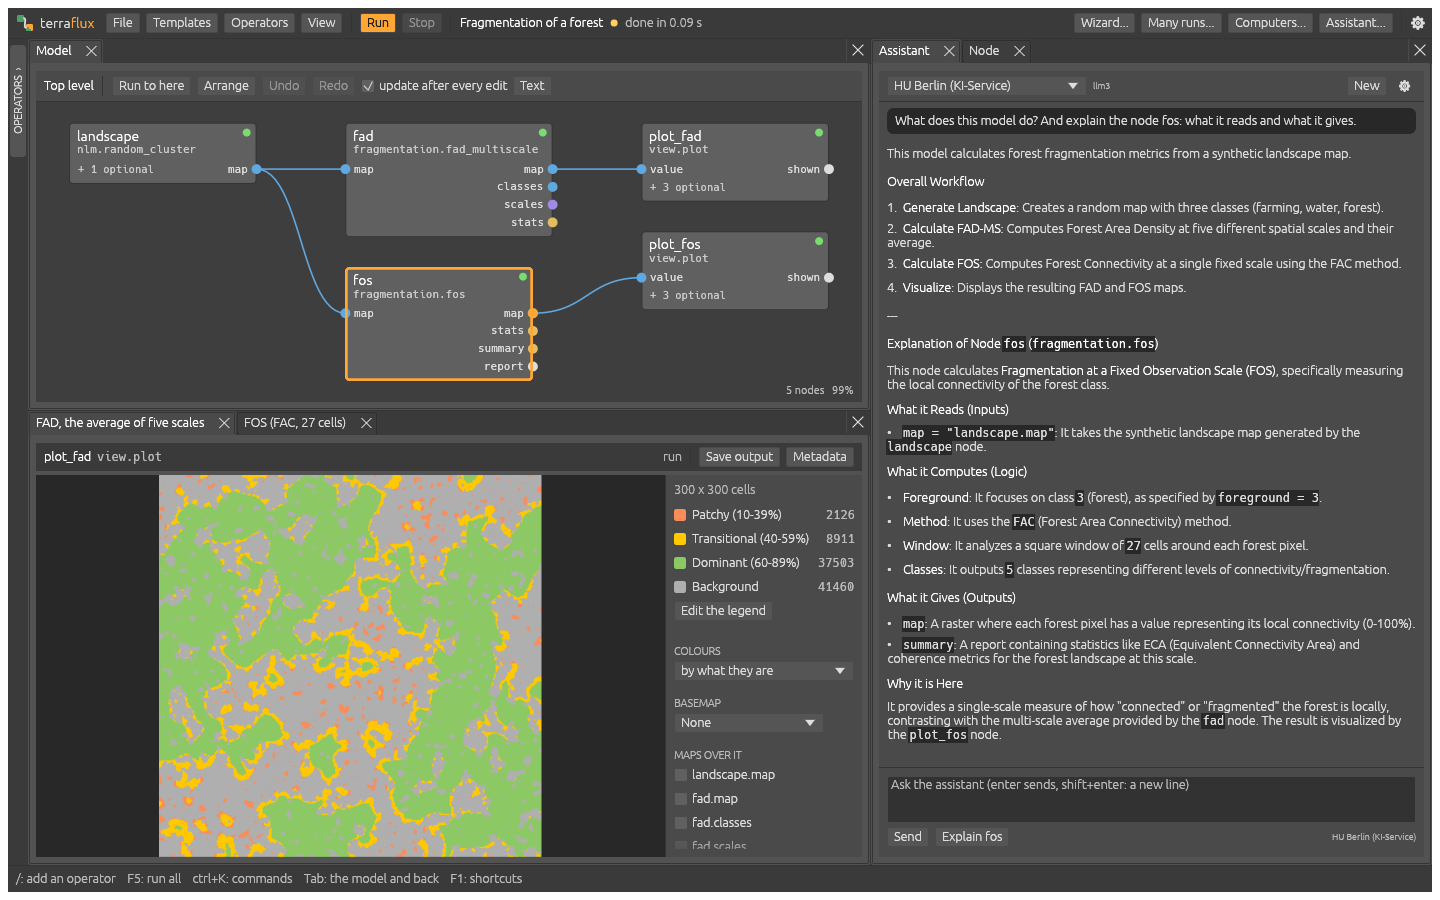
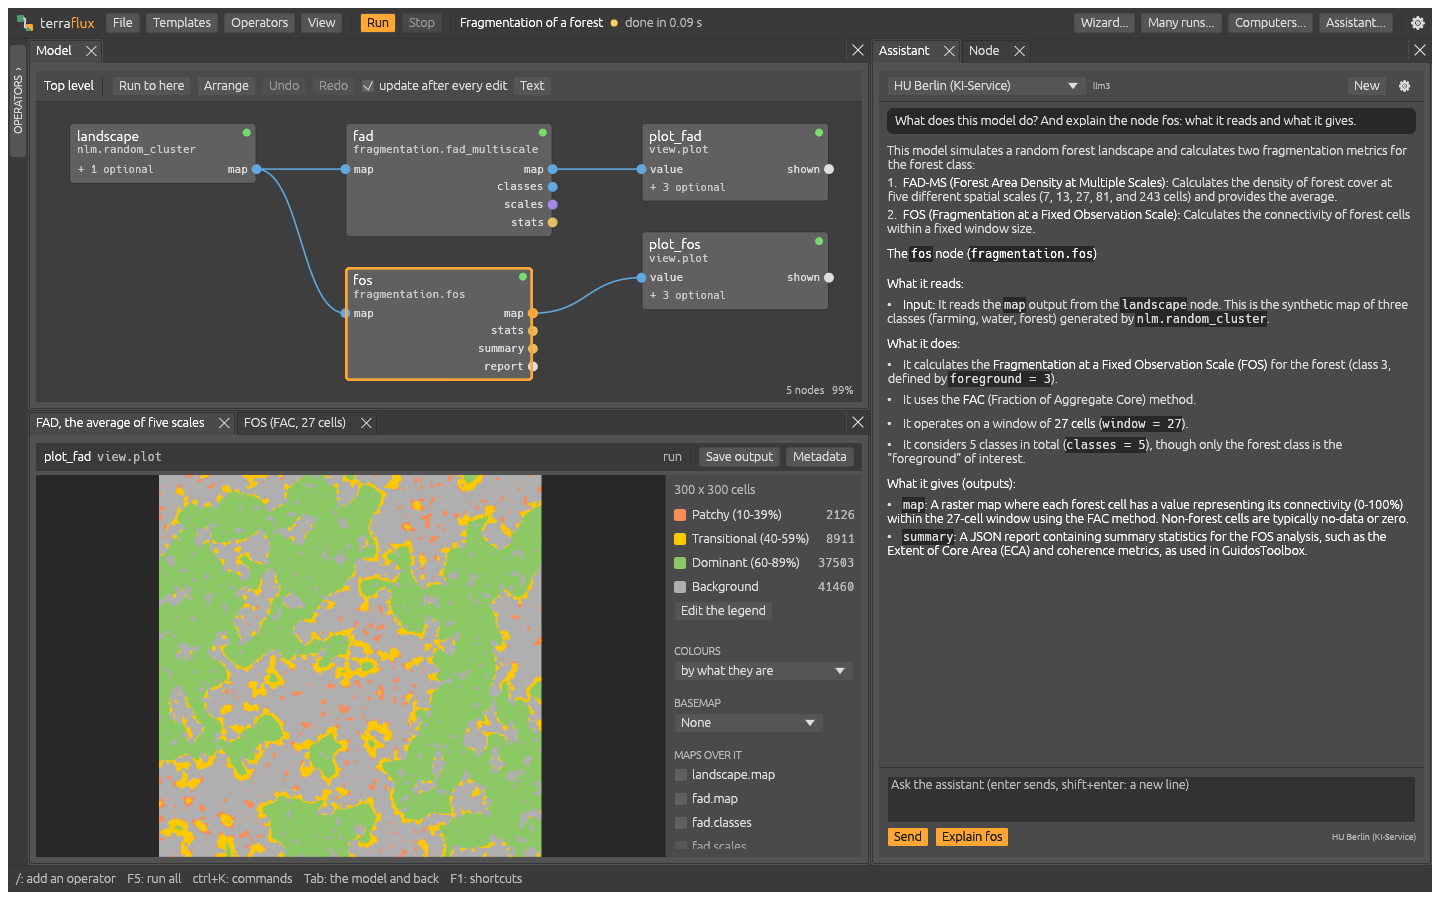
fix: the viewer opens behind the model's graph (a template, the first data), the assistant in the inspector's tabs at the right by default (the layout's version 9), Send and Explain in the accent

Changed region(s): [[0.5938, 0.1556, 0.9688, 0.84], [0.5938, 0.9022, 0.7188, 0.9644]]

diff --git a/crates/app/src/app.rs b/crates/app/src/app.rs
@@ -98,16 +98,17 @@ impl Pane {
 }
 
 /// The panes as they first are: the model in most of the window, the node selected at its right as an inspector
-/// (the preparation of its data and the files in tabs beside it); the others from the View menu. The viewer opens
-/// in a tab beside the model's when the first data comes (a raster or vectors read, a template); the maps of nodes
-/// open beside the viewer. The operators are in a drawer at the window's left edge, in the Operators menu, behind
+/// (the preparation of its data, the files and the assistant in tabs beside it); the others from the View menu.
+/// The viewer opens in a tab behind the model's when the first data comes (a raster or vectors read, a template);
+/// the maps of nodes open beside the viewer. The operators are in a drawer at the window's left edge, in the Operators menu, behind
 /// "/" and in the commands (ctrl+K); their pane, shown, takes the left edge.
 pub fn default_layout() -> DockState<Pane> {
     // the inspector a fifth of the window
     const NODE: f32 = 0.2;
     let mut d = DockState::new(vec![Pane::Model]);
     let s = d.main_surface_mut();
-    let [_, _] = s.split_right(NodeIndex::root(), 1.0 - NODE, vec![Pane::Node, Pane::Prepare, Pane::Files]);
+    let [_, _] =
+        s.split_right(NodeIndex::root(), 1.0 - NODE, vec![Pane::Node, Pane::Prepare, Pane::Files, Pane::Assistant]);
     d
 }
 
@@ -133,7 +134,7 @@ fn retain_panes(dock: &mut DockState<Pane>, keep: impl FnMut(&mut Pane) -> bool)
 }
 
 /// The version of the layout kept (a layout of another version is let go).
-const LAYOUT_VERSION: u32 = 8;
+const LAYOUT_VERSION: u32 = 9;
 
 /// A window of its own (another screen): its panes in a dock.
 pub struct Detached {
@@ -1220,7 +1221,7 @@ impl TerrafluxApp {
                 // a model of data: its viewer beside it, the graph in front
                 self.viewer_opened = false;
                 if self.has_data() {
-                    self.add_viewer(false);
+                    self.add_viewer();
                 }
             }
             Err(e) => self.message = Some(e),
@@ -1251,8 +1252,8 @@ impl TerrafluxApp {
         self.session = Some(s);
         self.message = None;
         self.focus(Pane::Model);
-        // what it makes, in the viewer
-        self.add_viewer(true);
+        // what it makes, in the viewer (behind the graph)
+        self.add_viewer();
     }
 
     /// Save the model (asking where when it has no file yet).
@@ -2265,7 +2266,7 @@ impl TerrafluxApp {
     /// a model with inputs, a template started.
     fn open_viewer(&mut self) {
         if !self.viewer_opened && self.has_data() {
-            self.add_viewer(true);
+            self.add_viewer();
         }
     }
 
@@ -2276,16 +2277,18 @@ impl TerrafluxApp {
         })
     }
 
-    /// The viewer's tab opened beside the model's (if it is not open), in front or behind the tab in front.
-    fn add_viewer(&mut self, front: bool) {
+    /// The viewer's tab opened beside the model's (if it is not open), behind it: the graph stays in front, and the
+    /// focus where it was.
+    fn add_viewer(&mut self) {
         self.viewer_opened = true;
         if self.is_open(Pane::Viewer) {
             return;
         }
         let before = self.focused();
         self.focus(Pane::Viewer);
-        if !front {
-            self.focus(before.filter(|p| *p != Pane::Viewer).unwrap_or(Pane::Model));
+        self.focus(Pane::Model);
+        if let Some(b) = before.filter(|p| !matches!(p, Pane::Viewer | Pane::Model)) {
+            self.focus(b);
         }
     }
 
@@ -2675,7 +2678,7 @@ impl TerrafluxApp {
             }
             self.viewer_opened = false;
             if self.has_data() {
-                self.add_viewer(false);
+                self.add_viewer();
             }
         }
         self.layout_file = Some(path);

diff --git a/crates/app/tests/ui.rs b/crates/app/tests/ui.rs
@@ -452,6 +452,8 @@ fn a_basemap_shows_under_the_data() {
         )
         .unwrap();
     }
+    h.run_steps(2);
+    h.state_mut().focus(Pane::Viewer);
     until(&mut h, "the map with a CRS", |a| {
         let s = a.session.as_ref().unwrap();
         !s.running() && s.preview_value().is_some()
@@ -487,6 +489,8 @@ fn templates_run_and_the_keyboard_adds_operators() {
     h.run_steps(2);
     let ctx = h.ctx.clone();
     h.state_mut().start_template(&ctx, &terraflux_app::templates::TEMPLATES[0]);
+    // (the viewer opens behind the graph)
+    h.state_mut().focus(Pane::Viewer);
     until(&mut h, "the template's plot", |a| a.session.as_ref().unwrap().map_tabs.values().any(|t| t.node == "plot"));
     until(&mut h, "the run", |a| {
         let s = a.session.as_ref().unwrap();
@@ -1756,12 +1760,13 @@ fn the_viewer_comes_with_the_data_and_the_cells_show_their_values() {
             .unwrap();
     }
     h.run_steps(2);
-    assert_eq!(h.state_mut().focused(), Some(Pane::Viewer), "the viewer, in front");
+    assert_eq!(h.state_mut().focused(), Some(Pane::Model), "the viewer behind the model's graph");
     {
         let dock = h.state().dock.as_ref().unwrap();
         let (a, b) = (dock.find_tab(&Pane::Model).unwrap(), dock.find_tab(&Pane::Viewer).unwrap());
         assert_eq!((a.surface, a.node), (b.surface, b.node), "in a tab beside the model's");
     }
+    h.state_mut().focus(Pane::Viewer);
     drawn(&mut h);
     until(&mut h, "the map drawn", |a| a.session.as_ref().unwrap().preview_view.rect().is_some());
     let rect = h.state().session.as_ref().unwrap().preview_view.rect().unwrap();

diff --git a/crates/app/src/chat.rs b/crates/app/src/chat.rs
@@ -950,9 +950,12 @@ fn input(ui: &mut Ui, c: &mut Chat, s: &mut Session) {
                 c.stop();
             }
         } else {
-            send |= ui.add(crate::app::accent_button("Send", !c.input.trim().is_empty())).clicked();
+            send |= ui.add(crate::app::accent_button("Send", true)).clicked();
             if let Some(id) = s.selected.clone()
-                && ui.button(format!("Explain {id}")).on_hover_text("what the node selected does, and why").clicked()
+                && ui
+                    .add(crate::app::accent_button(&format!("Explain {id}"), true))
+                    .on_hover_text("what the node selected does, and why")
+                    .clicked()
             {
                 c.input =
                     format!("Explain the node {id}: what it does, why it is there, what it reads and what it gives.");

diff --git a/crates/app/tests/canvas.rs b/crates/app/tests/canvas.rs
@@ -452,9 +452,9 @@ fn files_become_nodes_and_rasters_join_a_stack_by_a_connection() {
     let tif = inputs.join("sibuyan_landuse.tif").to_string_lossy().into_owned();
     assert_eq!(read, [("raster.read", tif.as_str()), ("vector.read", geojson.to_str().unwrap())]);
     let raster = s.source.nodes[1].id.clone();
-    // the first data: the viewer, in a tab beside the model's, in front
-    assert_eq!(h.state_mut().focused(), Some(Pane::Viewer));
-    h.state_mut().focus(Pane::Model);
+    // the first data: the viewer, in a tab beside the model's, behind it
+    assert!(h.state().is_open(Pane::Viewer));
+    assert_eq!(h.state_mut().focused(), Some(Pane::Model));
     // stack.of takes any maps: a connection let go on its place of a new input, or on the node, is one more
     // input, named as the node it comes from
     h.run_steps(3);
